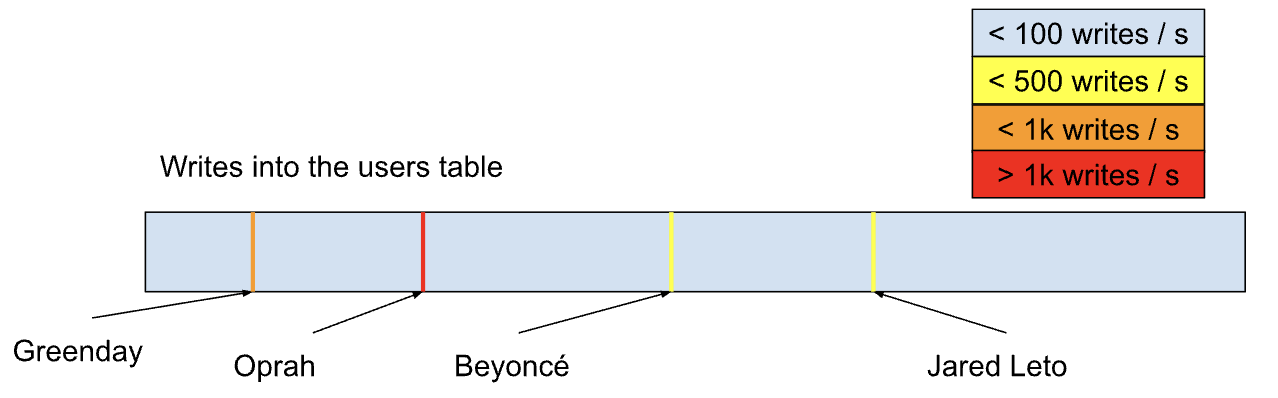
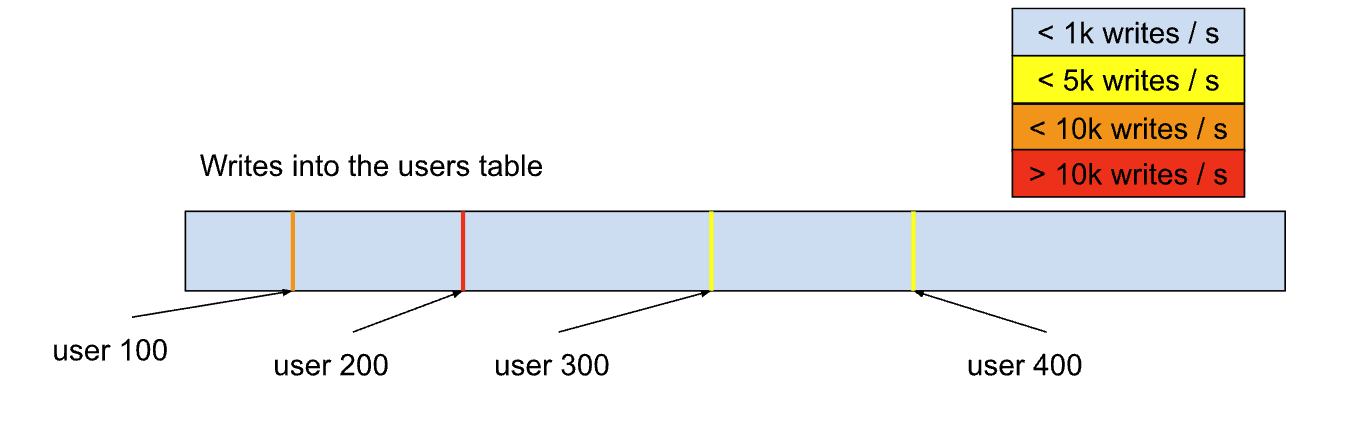
Incorporated Kathryn’s feedback.

diff --git a/src/current/v25.1/understand-hotspots.md b/src/current/v25.1/understand-hotspots.md
@@ -4,7 +4,7 @@ summary: Learn about the terminology and patterns of hotspots in CockroachDB
 toc: true
 ---
 
-Hotspots in distributed SQL are a common topic. The term _hotspot_ is useful to describe bottlenecks in scaling a cluster within workloads. This page defines terms and patterns to improve understanding for troubleshooting hotspots.
+In distributed SQL, hotspots describe bottlenecks in scaling a cluster within workloads. This page defines terminology and patterns for troubleshooting hotspots.
 
 These definitions are not mutually exclusive. They can be combined to describe a single incident.
 
@@ -12,34 +12,34 @@ These definitions are not mutually exclusive. They can be combined to describe a
 
 ### Hotspot
 
-The word _hotspot_ describes various skewed data access patterns in a [cluster]({% link {{ page.version.version }}/architecture/overview.md %}#cluster), often manifesting as higher [CPU]({% link {{ page.version.version }}/common-issues-to-monitor.md %}#cpu) utilization on one or more [nodes]({% link {{ page.version.version }}/architecture/overview.md %}#node). Hotspots can also be based on [disk I/O]({% link {{ page.version.version }}/common-issues-to-monitor.md %}#storage-and-disk-i-o), [memory]({% link {{ page.version.version }}/common-issues-to-monitor.md %}#memory) usage, or other finite resources. Hotspots are troublesome because they are often limited to a fixed-size subset of the cluster’s resources, which puts them in a class of performance issues that cannot be solved by [scaling the cluster size]({% link {{ page.version.version }}/frequently-asked-questions.md %}#how-does-cockroachdb-scale).
+The word _hotspot_ describes various skewed data access patterns in a [cluster]({% link {{ page.version.version }}/architecture/overview.md %}#cluster), often manifesting as higher [CPU]({% link {{ page.version.version }}/common-issues-to-monitor.md %}#cpu) utilization on one or more [nodes]({% link {{ page.version.version }}/architecture/overview.md %}#node). Hotspots can also be based on [disk I/O]({% link {{ page.version.version }}/common-issues-to-monitor.md %}#storage-and-disk-i-o), [memory]({% link {{ page.version.version }}/common-issues-to-monitor.md %}#memory) usage, or other finite resources in the cluster. Hotspots are performance issues that cannot be solved by [scaling the cluster size]({% link {{ page.version.version }}/frequently-asked-questions.md %}#how-does-cockroachdb-scale), because they are typically limited to a fixed-size subset of the cluster’s resources.
 
-### Hot Node
+### Hot node
 
-**Synonyms:** Node Hotspot
+**Synonyms:** node hotspot
 
-A _hot node_ is the most common way to identify a hotspot, as distributed SQL systems often provide resource utilization by node by default.
+A _hot node_ is the most common way to identify a hotspot, as distributed SQL systems often provide resource utilization per node by default.
 
 Identifying a hot node, or a node hotspot, is often part of troubleshooting hotspots in distributed databases. While this may not be the first place you notice issues, it is often the first place you can confidently identify a hotspot. Multiple nodes may become hot, but they will be clearly identifiable as their utilization metrics will be outliers compared to the rest of the cluster.
 
-All hotspot types described in this page will create hot nodes, as long as the cluster is not already operating at maximum capacity.
+All hotspot types described on this page will create hot nodes, as long as the cluster is not already operating at maximum capacity.
 
-The following image is a graph of [CPU Percent]({% link {{ page.version.version }}/ui-hardware-dashboard.md %}#cpu-percent) utilization by node. Most of the nodes hover around 25%, while one hot node is around 95%. The fact that the hot node changes indicates that the hotspot is moving as the [ranges]({% link {{ page.version.version }}/architecture/overview.md %}#range) containing writes fill up and split (for further explanation, see subsequent sections on [hot range](#hot-range) and [moving_hotspot](#moving-hotspot)).
+The following image is a graph of [CPU Percent]({% link {{ page.version.version }}/ui-hardware-dashboard.md %}#cpu-percent) utilization per node. Most of the nodes hover around 25%, while one hot node is around 95%. The fact that the hot node changes indicates that the hotspot is moving from node to node as the [ranges]({% link {{ page.version.version }}/architecture/overview.md %}#range) containing writes fill up and split (for further explanation, see subsequent sections on [hot range](#hot-range) and [moving hotspot](#moving-hotspot)).
 
 <a id="hotspots-figure-1"></a>
-<img src="{{ 'images/v25.1/hotspots-figure-1.png' | relative_url }}" alt="graph of CPU Percent utilization by node showing hot nodes" style="border:1px solid #eee;max-width:100%" />
+<img src="{{ 'images/v25.1/hotspots-figure-1.png' | relative_url }}" alt="graph of CPU Percent utilization per node showing hot nodes" style="border:1px solid #eee;max-width:100%" />
 
-### Hot Range
+### Hot range
 
-**Synonyms:** Range Hotspot
+**Synonyms:** range hotspot
 
-A _hot range_ is one level down from the node hotspot. [Ranges]({% link {{ page.version.version }}/architecture/overview.md %}#range) are the smallest unit of data distribution, making them critical in troubleshooting hotspots. The [DB Console Hot Ranges page]({% link {{ page.version.version }}/ui-hot-ranges-page.md %}) provides details about ranges receiving a high number of reads or writes. These hot ranges are an issue if they cause a [hot node](#hot-node).
+A _hot range_ is one level down from the node hotspot. [Ranges]({% link {{ page.version.version }}/architecture/overview.md %}#range) are the smallest unit of data distribution, making them critical in troubleshooting hotspots. The [DB Console Hot Ranges page]({% link {{ page.version.version }}/ui-hot-ranges-page.md %}) provides details about ranges receiving a high number of reads or writes, which become an issue if they cause a [hot node](#hot-node).
 
-If a node is hot, it is often due to a single hot range. The system may split the hot range to redistribute the load or the range may stay hot until it fills up and splits. In the second case, the split is likely the continuation of the hotspot (as shown in the [previous image](#hotspots-figure-1)). If the system is unable to identify a good splitting point for a hot range, the hot range becomes a bottleneck.
+If a node is hot, it is often due to a single hot range. The system may split the hot range to redistribute the load ([load-based splitting]({% link {{ page.version.version }}/load-based-splitting.md %})) or the range may stay hot until it fills up and splits ([range size splitting]({% link {{ page.version.version }}/architecture/distribution-layer.md %}#range-splits)). In the second case, the split is likely the continuation of the hotspot (as shown in the [previous image](#hotspots-figure-1)). If the system is unable to identify a good splitting point for a hot range (for example, in the case of a [row hotspot](#row-hotspot)), the hot range becomes a bottleneck.
 
-Understanding which range is hot and having knowledge of the [keyspace]({% link {{ page.version.version }}/architecture/overview.md %}#range) allows you to better approximate the nature of the hotspot compared to relying solely on node-level statistics.
+Understanding which range is hot and having knowledge of the [keyspace]({% link {{ page.version.version }}/architecture/overview.md %}#range) allows you to approximate the type of hotspot compared to relying solely on node-level statistics.
 
-### Moving Hotspot
+### Moving hotspot
 
 A _moving hotspot_ describes a hotspot that moves consistently during its life, either within the cluster (from node to node) or the keyspace (for example, reading the last 10 inserted rows on table T).
 
@@ -47,63 +47,63 @@ The [previous image](#hotspots-figure-1) of a CPU percent graph shows a hotspot 
 
 Moving hotspots are challenging because [load-based splitting]({% link {{ page.version.version }}/load-based-splitting.md %}) will not effectively partition the data to resolve them.
 
-### Static Hotspot
+### Static hotspot
 
 A _static hotspot_ remains fixed in the keyspace, though it may move from node to node. The underlying subject of the hotspot, whether a [span]({% link {{ page.version.version }}/show-ranges.md %}#span-statistics) or a key, remains the same.
 
-### Read Hotspot
+### Read hotspot
 
-**Synonyms:** Hot by Read
+**Synonyms:** hot by read
 
 A _read hotspot_ is a hotspot caused by read throughput, either from a few queries reading a lot of data or many queries reading a little data. Read hotspots can result from many queries requesting the same information or accessing adjacent data.
 
 While hotspots are often either hot by read or hot by write, they are seldom hot because of both.
 
-### Write Hotspot
+### Write hotspot
 
-**Synonyms:** Hot by Write
+**Synonyms:** hot by write
 
 A _write hotspot_ is a hotspot caused by write throughput. Write hotspots increase the likelihood of [contention]({% link {{ page.version.version }}/performance-best-practices-overview.md %}#transaction-contention) within the hot node or range, therefore leading to potential performance issues.
 
-Write hotspots also have the unique effect of affecting more than a single node. Since [consensus]({% link {{ page.version.version }}/architecture/overview.md %}#consensus) and [replication]({% link {{ page.version.version }}/architecture/overview.md %}#replication) must take place, write hotspots often affect three nodes (the default [replication factor]({% link {{ page.version.version }}/configure-replication-zones.md %})) rather than just one node.
+Write hotspots also uniquely impact multiple nodes. Since [consensus]({% link {{ page.version.version }}/architecture/overview.md %}#consensus) and [replication]({% link {{ page.version.version }}/architecture/overview.md %}#replication) must take place, write hotspots often affect the number of nodes equal to the [replication factor]({% link {{ page.version.version }}/configure-replication-zones.md %}#replication-zone-variables) (or `num_replicas`), rather than just one node.
 
-### Read/Write Pressure
+### Read/write pressure
 
-_Pressure_ describes how close resources are to their limits and can be thought of as the force exerted on the actual resources in the system. Pressure can be directed towards disk I/O, CPU, memory, and even non-hardware resources like [locks]({% link {{ page.version.version }}/architecture/transaction-layer.md %}#reading).
+_Pressure_ describes how close system resources, such as disk I/O, CPU, memory, and even non-hardware resources like [locks]({% link {{ page.version.version }}/architecture/transaction-layer.md %}#reading), are to their limits.
 
-It is especially useful when correlating pressure with activity, for example, the read pressure on Node 1 is coming from the key `/User/10`. Pressure is a useful term to describe resource limits, because it captures the ideas of [contention]({% link {{ page.version.version }}/performance-best-practices-overview.md %}#transaction-contention), utilization, and throughput - all of which can be the source of a hotspot - under a single definition.
+It is especially useful when correlating pressure with activity, for example, the read pressure on Node 1 is coming from the key `/User/10`. Pressure is a useful term to describe resource limits, because it includes [contention]({% link {{ page.version.version }}/performance-best-practices-overview.md %}#transaction-contention), utilization, and throughput — all of which can be the source of a hotspot.
 
-### Index Tail
+### Index tail
 
-**Synonyms:** Index Maximum Present Key
+**Synonyms:** index maximum present key
 
-An _index tail_ is the largest existing key of an index, lexigraphically. Note that this is different from the index (such as `/Table/1/1`) or index spans (such as `[/Table/1/1, /Table/1/2)`), since these are not valid row keys. An index tail instead refers to the last real key which appears in the index. For example, the head and tail of the index `/Table/1/1` are: `[/Table/1/1/aardvark, /Table/1/1/zultan]` 
+An _index tail_ is the largest existing key of an index, lexigraphically. Note that this is different from the index (such as `/Table/1/1`) or index spans (such as `[/Table/1/1, /Table/1/2)`), because these are not valid row keys. An index tail instead refers to the last real key that appears in the index. For example, the head and tail of the index `/Table/1/1` are: `[/Table/1/1/aardvark, /Table/1/1/zultan]` 
 
 ## Patterns
 
-This section goes into detail about workload patterns which result in hotspots.
+This section goes into detail about workload patterns that can result in hotspots.
 
-### Index Hotspot
+### Index hotspot
 
 **Synonyms**: hot index, golden keyspace hotspot, monotonically increasing index, a running tail, a moving tail
 
-An _index hotspot_ is a hotspot on an [index]({% link {{ page.version.version }}/indexes.md %}) where the key for writes is continually increasing. This is common with indexing by an increasing column. For example, the column may be of data type [`SERIAL`]({% link {{ page.version.version }}/serial.md %}), [`TIMESTAMP`]({% link {{ page.version.version }}/timestamp.md %}), or [`AUTO_INCREMENT`]({% link {{ page.version.version }}/serial.md %}#auto-incrementing-is-not-always-sequential)). However, an index hotspot is not always determined by the data type. If sequential data generated by the application is inserted into an index, a hotspot may occur. Index hotspots limit horizontal scaling as the index acts as a bottleneck.
+An _index hotspot_ is a hotspot on an [index]({% link {{ page.version.version }}/indexes.md %}) where the key for writes is continually increasing. This is common with indexing by an increasing column. For example, the column may be of data type [`SERIAL`]({% link {{ page.version.version }}/serial.md %}), [`TIMESTAMP`]({% link {{ page.version.version }}/timestamp.md %}), or [`AUTO_INCREMENT`]({% link {{ page.version.version }}/serial.md %}#auto-incrementing-is-not-always-sequential). However, an index hotspot is not always determined by the data type. If sequential data generated by the application is inserted into an index, a hotspot may occur. Index hotspots limit horizontal scaling as the index acts as a bottleneck.
 
-Consider a table `users` which contains a [primary key]({% link {{ page.version.version }}/primary-key.md %}) `user_id` that is an incrementing integer value. Each new key will be the current maximum key + 1. In this way, all writes appear at the index tail. The following image visualizes writes to the `users` table using an incrementing `INT` primary key. Note how all writes are focused at the tail of the index, represented by the red section in Range 4.
+Consider a table `users` that contains a [primary key]({% link {{ page.version.version }}/primary-key.md %}) `user_id`, which is an incrementing integer value. Each new key will be the current maximum key + 1. In this way, all writes appear at the index tail. The following image visualizes writes to the `users` table using an incrementing `INT` primary key. Note how all writes are focused at the tail of the index, represented by the red section in Range 4.
 
 <img src="{{ 'images/v25.1/hotspots-figure-3.png' | relative_url }}" alt="incrementing INT primary key" style="border:1px solid #eee;max-width:100%" />
 
-If you are able to control for the performance degradation that occurs in Range 4 in this case, you do not change the fact that the system is now limited by how many writes a single range can execute. This then, in theory, limits CockroachDB to the performance of a single node, which is, by nature, antithetical to the goals of a distributed database.
+Even if you are able to control for the performance degradation that occurs in Range 4, the system is still constrained by how many writes a single range can execute. As a result, CockroachDB could be limited to the performance of a single node, which goes against the purpose of a distributed database.
 
-Index hotspots themselves are [hot by write](#write-hotspot), [moving hotspots](#moving-hotspot) which will continue to bounce around from range to range as the data grows.
+Index hotspots themselves are [hot by write](#write-hotspot), [moving hotspots](#moving-hotspot) that will continue to bounce around from range to range as the data grows.
 
-In the ideal operation of a distributed SQL database, inserts into an index should be distributed evenly in the index's span to avoid this type of hotspot. Each range responsible for storing keys receives an even share of the workload. If the ranges containing the data become hot in this mode, scaling the cluster is as easy as adding machines horizontally.
+In the ideal operation of a distributed SQL database, inserts into an index should be distributed evenly in the index's span to avoid this type of hotspot. Each range responsible for storing keys receives an even share of the workload. If the ranges containing the data become hot in this mode, the cluster can be [scaled horizontally]({% link {{ page.version.version }}/why-cockroachdb.md %}#scalability).
 
-Consider a table `users` which contains a primary keys `user_uuid` of type [`UUID`]({% link {{ page.version.version }}/uuid.md %}). Because `UUID`s are pseudo-random, new rows are inserted into the keyspace at random locations. The following image visualizes writes to the `users` table using a `UUID` primary key. Red lines indicate an insert into the keyspace. Note how the red lines are distributed evenly.
+Consider a table `users` that contains a primary key `user_uuid` of type [`UUID`]({% link {{ page.version.version }}/uuid.md %}). Because `UUID`s are pseudo-random, new rows are inserted into the keyspace at random locations. The following image visualizes writes to the `users` table using a `UUID` primary key. Red lines indicate an insert into the keyspace. Note how the red lines are distributed evenly.
 
 <img src="{{ 'images/v25.1/hotspots-figure-2.png' | relative_url }}" alt="UUID primary key" style="border:1px solid #eee;max-width:100%" />
 
-Inserts are not the only way that index hotspots can occur. Consider the same table `users` which now has a [secondary index]({% link {{ page.version.version }}/schema-design-indexes.md %}) on a `TIMESTAMP` column:
+Inserts are not the only way that index hotspots can occur. Consider the same table `users` that now has a [secondary index]({% link {{ page.version.version }}/schema-design-indexes.md %}) on a `TIMESTAMP` column:
 
 ~~~ sql
 # ddl
@@ -118,11 +118,13 @@ INSERT INTO profiles (user_uuid, last_seen_at) VALUES ('d9efa555-e8fd-4793-9239-
 UPDATE profiles SET last_seen_at = CURRENT_TIMESTAMP() WHERE user_uuid='d9efa555-e8fd-4793-9239-f484454980cc';
 ~~~
 
-Because [`CURRENT_TIMESTAMP()`]({% link {{ page.version.version }}/functions-and-operators.md %}#date-and-time-functions) is a steadily increasing value, this [`UPDATE`]({% link {{ page.version.version }}/update.md %}) will similarly burden the range at the tail of the index. While hotspots on an index tail tend to be the most common, bottlenecks on the head are not unheard of. For example, indexing on `DESC` with the same insertion strategy will cause a hotspot.
+Because [`CURRENT_TIMESTAMP()`]({% link {{ page.version.version }}/functions-and-operators.md %}#date-and-time-functions) is a steadily increasing value, this [`UPDATE`]({% link {{ page.version.version }}/update.md %}) will similarly burden the range at the tail of the index. While hotspots on an index tail tend to be the most common, bottlenecks on the head are also possible. For example, indexing on `DESC` with the same insertion strategy will cause a hotspot.
 
-In this page, the phrase _index hotspot_ will be reserved for a hot by write hotspot on an index, even though indexes can become hot due to read. This is because a hot by write index hotspot is the most common hotspot pattern that occurs now and in the future as workloads continue to be migrated from legacy single-node installations. Hot by read index hotspots are defined later on this page as [_lookback hotspots_](#lookback-hotspots).
+{{site.data.alerts.callout_info}}
+On this page, the phrase _index hotspot_ will be reserved for a hot by write hotspot on an index, even though indexes can become hot due to read. This is because a hot by write index hotspot is the most common hotspot pattern that occurs now and in the future as workloads continue to be migrated from legacy single-node installations. Hot by read index hotspots are defined later on this page as [_lookback hotspots_](#lookback-hotspots).
+{{site.data.alerts.end}}
 
-#### Resolving Index Hotspots
+#### Resolving index hotspots
 
 The resolution of the index hotspot often depends on your requirements for the data. If the sequential nature of the index serves no purpose, it is recommended to change the writes into the index to be randomly distributed. Ideally, primary keys in this instance would be set to `UUID`s, if your tolerance for swapover or even downtime allows it.
 
@@ -132,11 +134,13 @@ If inserting in sequential order is important, the index itself can be [hash-sha
 
 Now the writes are distributed into the tails of the shards, rather than the tail of the whole index. This benefits write performance but makes reads more challenging. If you need to read a subset of the data, you will have to scan each shard of the index.
 
-#### Paradoxical Performance Implications
+{{site.data.alerts.callout_info}}
+Paradoxical performance implications
 
-A note on the index hotspot is that they paradoxically increase the efficiency of CockroachDB from the standpoint of the number of CPU cycles per write. This is primarily due to [write compactions]({% link {{ page.version.version }}/architecture/storage-layer.md %}#compaction). As index hotspots continually move in a single direction, the [SST (sorted string table)]({% link {{ page.version.version }}/architecture/storage-layer.md %}#log-structured-merge-trees) files generated by them have little overlap. Consequently, this results in minimal write throughput compared to a properly distributed workload. However, this performance boost has a limit, and relying on hotspot behavior for this advantage would be short-sighted due to the other problems hotspots can cause.
+Index hotspots paradoxically increase the efficiency of CockroachDB from the standpoint of the number of CPU cycles per write. This is primarily due to [write compactions]({% link {{ page.version.version }}/architecture/storage-layer.md %}#compaction). As index hotspots continually move in a single direction, the [SST (sorted string table)]({% link {{ page.version.version }}/architecture/storage-layer.md %}#log-structured-merge-trees) files generated by them have little overlap. Consequently, this results in minimal write throughput compared to a properly distributed workload. However, this performance boost has a limit, and relying on hotspot behavior for this advantage would be short-sighted due to the other problems hotspots can cause.
+{{site.data.alerts.end}}
 
-#### Lookback Hotspots
+#### Lookback hotspots
 
 **Synonyms:** index scan hotspot, moving read hotspot
 
@@ -156,11 +160,11 @@ SELECT MAX(created_at) FROM posts GROUP BY created_at ORDER BY created_at LIMIT 
 
 What makes lookback hotspots unique is that the cluster is not hot by write, but hot by read. Separately lookback hotspots also tend not to specify a key, which would evade systems using key requests to identify hotspots.
 
-#### Queuing Hotspot
+#### Queuing hotspot
 
-**Synonyms:** Outbox hotspot
+**Synonyms:** outbox hotspot
 
-A _queuing hotspot_ is a type of index hotspot that occurs when an workload treats CockroachDB like a distributed queue. This can happen if you implement the [Outbox microservice pattern]({% link {{ page.version.version }}/cdc-queries.md %}#queries-and-the-outbox-pattern).
+A _queuing hotspot_ is a type of index hotspot that occurs when a workload treats CockroachDB like a distributed queue. This can happen if you implement the [Outbox microservice pattern]({% link {{ page.version.version }}/cdc-queries.md %}#queries-and-the-outbox-pattern).
 
 Queues, such as logs, generally require data to be ordered by write, which necessitates indexing in a way that is likely to create a hotspot. An outbox where data is deleted as it is read has an additional problem: it tends to accumulate an ordered set of [garbage data]({% link {{ page.version.version }}/operational-faqs.md %}#why-is-my-disk-usage-not-decreasing-after-deleting-data) behind the live data. Since the system cannot determine whether any live rows exist within the garbage data, what appears to be a small table scan to the user can actually result in an unexpectedly intensive scan on the garbage data.
 
@@ -168,13 +172,13 @@ Queues, such as logs, generally require data to be ordered by write, which neces
 
 To mitigate this issue, it is advisable to use [Change Data Capture (CDC)]({% link {{ page.version.version }}/cdc-queries.md %}) to ensure subscription to updates instead of using Outbox tables. If using CDC is not possible, sharding the index that the outbox uses for ordering can reduce the likelihood of a hotspot within the cluster.
 
-### Row Hotspot
+### Row hotspot
 
 **Synonyms:** hot key, hot row, point hotspot
 
 A _row hotspot_ is a hotspot where an individual point in the keyspace becomes throughput limiting, often due to high activity on a single row. Since rows are inherently indivisible, a hotspot on a row cannot be [split]({% link {{ page.version.version }}/load-based-splitting.md %}). A classic example is a social media application with a high volume of activity on certain users.
 
-Consider a social media application which initially consists of two tables, `users` and `follows`:
+Consider a social media application that initially consists of two tables, `users` and `follows`:
 
 ~~~ sql
 CREATE TABLE users(
@@ -199,17 +203,17 @@ INSERT INTO follows(follower, followee) VALUES (1, 2);
 UPDATE User SET follower_count = follower_count+1 WHERE id=2;
 ~~~
 
-This simple design works well until it encounters an unexpected surge in activity. For example, consider user 471, who suddenly goes viral and gains millions of followers within an hour. This sudden increase in followers causes a significant amount of write traffic to the range responsible for this user, which the system may not be able to handle efficiently. The following image visualizes a hot row in the keyspace. Note how writes are focused on a single point, which cannot be split.
+This simple design works well until it encounters an unexpected surge in activity. For example, consider user 471, who suddenly gains millions of followers within an hour. This sudden increase in followers causes a significant amount of write traffic to the range responsible for this user, which the system may not be able to handle efficiently. The following image visualizes a hot row in the keyspace. Note how writes are focused on a single point, which cannot be split.
 
 <img src="{{ 'images/v25.1/hotspots-figure-6.png' | relative_url }}" alt="Single row hotspot example" style="border:1px solid #eee;max-width:100%" />
 
-Without changing the default behavior of the system, the load will not be distributed because it needs to be served by a single range. This behavior is not just temporary; certain users, such as celebrities and influencers, may consistently experience a high volume of activity compared to the average user. This can result in a system with multiple hotspots, each of which can potentially overload the system at any moment.
+Without changing the default behavior of the system, the load will not be distributed because it needs to be served by a single range. This behavior is not just temporary; certain users may consistently experience a high volume of activity compared to the average user. This can result in a system with multiple hotspots, each of which can potentially overload the system at any moment.
 
 The following image visualizes a keyspace with multiple hot rows. In a large enough cluster, each of these rows can burden the range they live in, leading to multiple burdened nodes.
 
 <img src="{{ 'images/v25.1/hotspots-figure-7.png' | relative_url }}" alt="Multiple row hotspots example" style="border:1px solid #eee;max-width:100%" />
 
-### Hot Sequence
+### Hot sequence
 
 _Hot sequences_ and [_hot indexes_](#index-hotspot) are distinct concepts, though they may appear similar at a glance, since a hot index often involves a [sequence]({% link {{ page.version.version }}/create-sequence.md %}). However, they have different bottlenecks.
 
@@ -233,9 +237,9 @@ The following image visualizes writes in the `products` keyspace using hash-shar
 
 Because sequences avoid user expressions, optimizations can be made to improve their performance, but unfortunately the write volume on the sequence is still that of the sum total of all its accesses.
 
-[Sequence caching]({% link {{ page.version.version }}/create-sequence.md %}#cache-sequence-values-in-memory), which allows clients to cache sequence values as to reduce the burden on the target range, serves as a good mitigation for hot sequences. Alternatively, the `unique_rowid()` function generates sequential values which have strong guarantees against collision, with the drawback that its values are not a series.
+[Sequence caching]({% link {{ page.version.version }}/create-sequence.md %}#cache-sequence-values-in-memory), which allows clients to cache sequence values to reduce the burden on the target range, serves as a good mitigation for hot sequences. Alternatively, the `unique_rowid()` function generates sequential values which have strong guarantees against collision, with the drawback that its values are not a series.
 
-### Table Hotspot
+### Table hotspot
 
 **Synonyms:** hot table
 
@@ -261,9 +265,9 @@ SELECT * FROM posts p JOIN countries c ON p.country_id=c.id;
 
 <img src="{{ 'images/v25.1/hotspots-figure-9.png' | relative_url }}" alt="Table hotspot example" style="border:1px solid #eee;max-width:100%" />
 
-Reads in the `posts` table may be evenly distributed, but joining the `countries` table becomes a bottleneck, since it exists in so few ranges. Splitting the `countries` table ranges can relieve pressure, but only to a theoretical limit as the indivisible points, the rows themselves, experience high throughput. [Global tables]({% link {{ page.version.version }}/global-tables.md %}) and [follower reads]({% link {{ page.version.version }}/follower-reads.md %}) can help scaling in this case, especially when write throughput is low.
+Reads in the `posts` table may be evenly distributed, but joining the `countries` table becomes a bottleneck, since it exists in so few ranges. Splitting the `countries` table ranges can relieve pressure, but only to a limit as the indivisible rows experience high throughput. [Global tables]({% link {{ page.version.version }}/global-tables.md %}) and [follower reads]({% link {{ page.version.version }}/follower-reads.md %}) can help scaling in this case, especially when write throughput is low.
 
-### Locality Hotspot
+### Locality hotspot
 
 **Synonyms:** region hotspot, domicile hotspot
 
@@ -278,7 +282,7 @@ ALTER TABLE orders ADD COLUMN region crdb_internal_region AS (
 ) STORED;
 ~~~
 
-In the `ALTER` statement, the first condition `province <> 'alabama'` checks whether the province is not `alabama`. It matches every single row in the table that is not `alabama`, and will ironically place them in the `us-east-1` region.
+In the `ALTER` statement, the first condition `province <> 'alabama'` checks whether the province is not `alabama`. It matches every single row in the table that is not `alabama`, and will place them in the `us-east-1` region.
 
 By doing this, you have limited the traffic from the highest throughput table to a single region, five nodes or 10% of the nodes in your cluster.
 
@@ -286,19 +290,19 @@ The following image visualizes the regional breakout of data in the `orders` tab
 
 <img src="{{ 'images/v25.1/hotspots-figure-10.png' | relative_url }}" alt="Locality hotspot example" style="border:1px solid #eee;max-width:100%" />
 
-### Temporal Hotspot
+### Temporal hotspot
 
 **Synonyms:** time-based hotspot
 
-_Temporal hotspots_ refer to increased database usage during particular windows of time. These take a variety of shapes, from event and holiday usage (such as Black Friday or the Superbowl), to synchronized job runs.
+_Temporal hotspots_ refer to increased database usage during particular windows of time. These take a variety of shapes, from event and holiday usage, to synchronized job runs.
 
-### Load Balancing Hotspot
+### Load balancing hotspot
 
 A _load balancing hotspot_ is a hotspot caused by a [load balancer]({% link {{ page.version.version }}/recommended-production-settings.md %}#load-balancing) misconfiguration. This means that the connections are not distributed equally across all nodes. Instead, one node receives an excessive number of connections, resulting in an overload.
 
 Although this issue is often considered an afterthought because key hotspots are generally more common, it is important to note that all possible consumer groups can create uneven load on the cluster. For example, a [changefeed]({% link {{ page.version.version }}/changefeed-best-practices.md %}#maintain-system-resources-and-running-changefeeds) subscription can create hotspots if a single node is responsible for exporting all row updates within the cluster.
 
-### Tenant Hotspot
+### Tenant hotspot
 
 **Synonyms:** noisy neighbor, ghost hotspot
 
